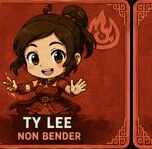
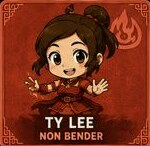
Fix portrait crop bleed, drop card tilt, add AI disclaimer
- Re-crop all 24 portraits using measured per-card boundaries (the
  source sheet's cards aren't perfectly uniform in size, so a fixed
  crop window was bleeding into neighboring cards on some columns).
- Remove the per-card random rotation from the previous "scattered"
  look — boards keep their shuffled order but cards render straight.
- Add a banner disclosing that the code and character art were
  generated with AI.

diff --git a/js/app.js b/js/app.js
@@ -74,7 +74,6 @@
     const card = document.createElement('div');
     card.className = 'char-card';
     card.dataset.id = char.id;
-    card.style.setProperty('--rot', `${cardRotation(char.id)}deg`);
     card.appendChild(portraitEl(char));
 
     const tag = document.createElement('div');
@@ -86,18 +85,10 @@
     return card;
   }
 
-  // A fixed shuffle of the roster and a small fixed rotation per character,
-  // so every board looks like a scattered pile instead of a tidy grid, but
-  // stays in the same scattered layout for the rest of the session.
+  // A fixed shuffle of the roster so every board looks like a scattered
+  // pile instead of characters lined up by nation, but stays in the same
+  // scattered order for the rest of the session.
   const SHUFFLED_CHARACTERS = shuffle(CHARACTERS);
-  const CARD_ROTATIONS = {};
-  CHARACTERS.forEach((char) => {
-    CARD_ROTATIONS[char.id] = Math.random() * 7 - 3.5;
-  });
-
-  function cardRotation(id) {
-    return CARD_ROTATIONS[id] || 0;
-  }
 
   function shuffle(list) {
     const arr = list.slice();

diff --git a/css/style.css b/css/style.css
@@ -30,6 +30,15 @@ html, body {
 
 .hidden { display: none !important; }
 
+.ai-banner {
+  background: linear-gradient(90deg, rgba(240,180,41,0.16), rgba(240,180,41,0.05));
+  border-bottom: 1px solid var(--border);
+  color: var(--text-dim);
+  font-size: 0.8rem;
+  text-align: center;
+  padding: 8px 20px;
+}
+
 .app-header {
   display: flex;
   align-items: center;
@@ -211,18 +220,17 @@ html, body {
   cursor: pointer;
   user-select: none;
   position: relative;
-  transform: rotate(var(--rot, 0deg));
   transition: border-color 0.15s ease, transform 0.15s ease, opacity 0.2s ease, z-index 0s;
 }
 .char-card:hover {
   border-color: var(--accent);
-  transform: rotate(0deg) translateY(-3px) scale(1.04);
+  transform: translateY(-3px) scale(1.04);
   z-index: 2;
 }
 
 .char-portrait {
   width: 100%;
-  aspect-ratio: 152 / 167;
+  aspect-ratio: 1 / 1;
   border-radius: 7px;
   display: flex;
   align-items: center;

diff --git a/index.html b/index.html
@@ -9,6 +9,10 @@
 </head>
 <body>
 
+<div class="ai-banner">
+  🤖 Made with AI &mdash; all code and character artwork on this site were generated using AI tools.
+</div>
+
 <header class="app-header">
   <h1><span class="glyph">🌀</span> Guess the Bender</h1>
   <div id="conn-status" class="conn-status hidden"></div>
